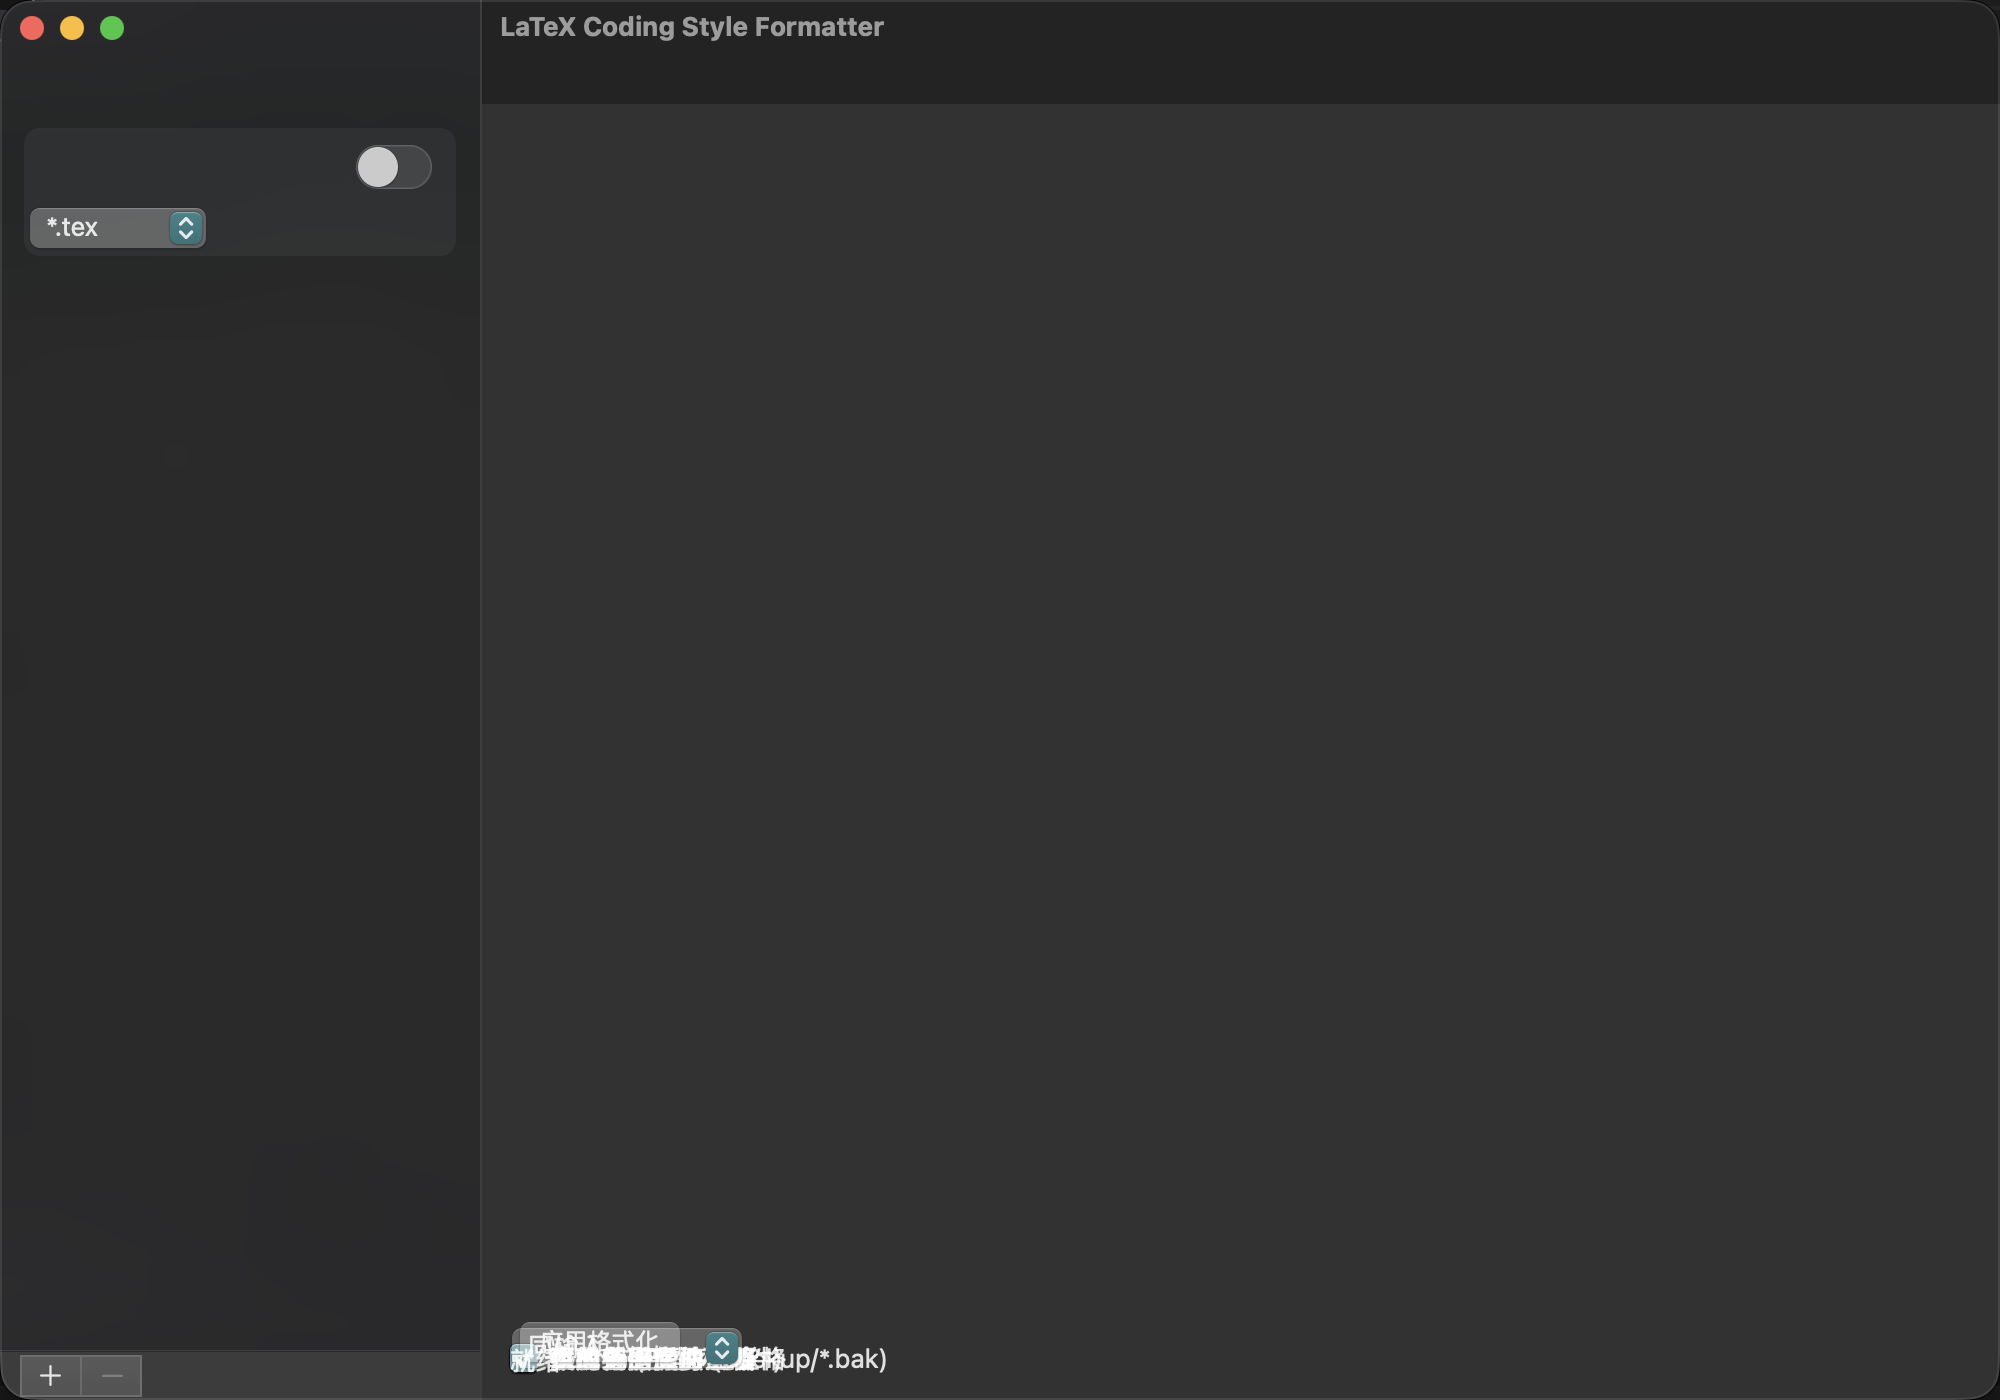
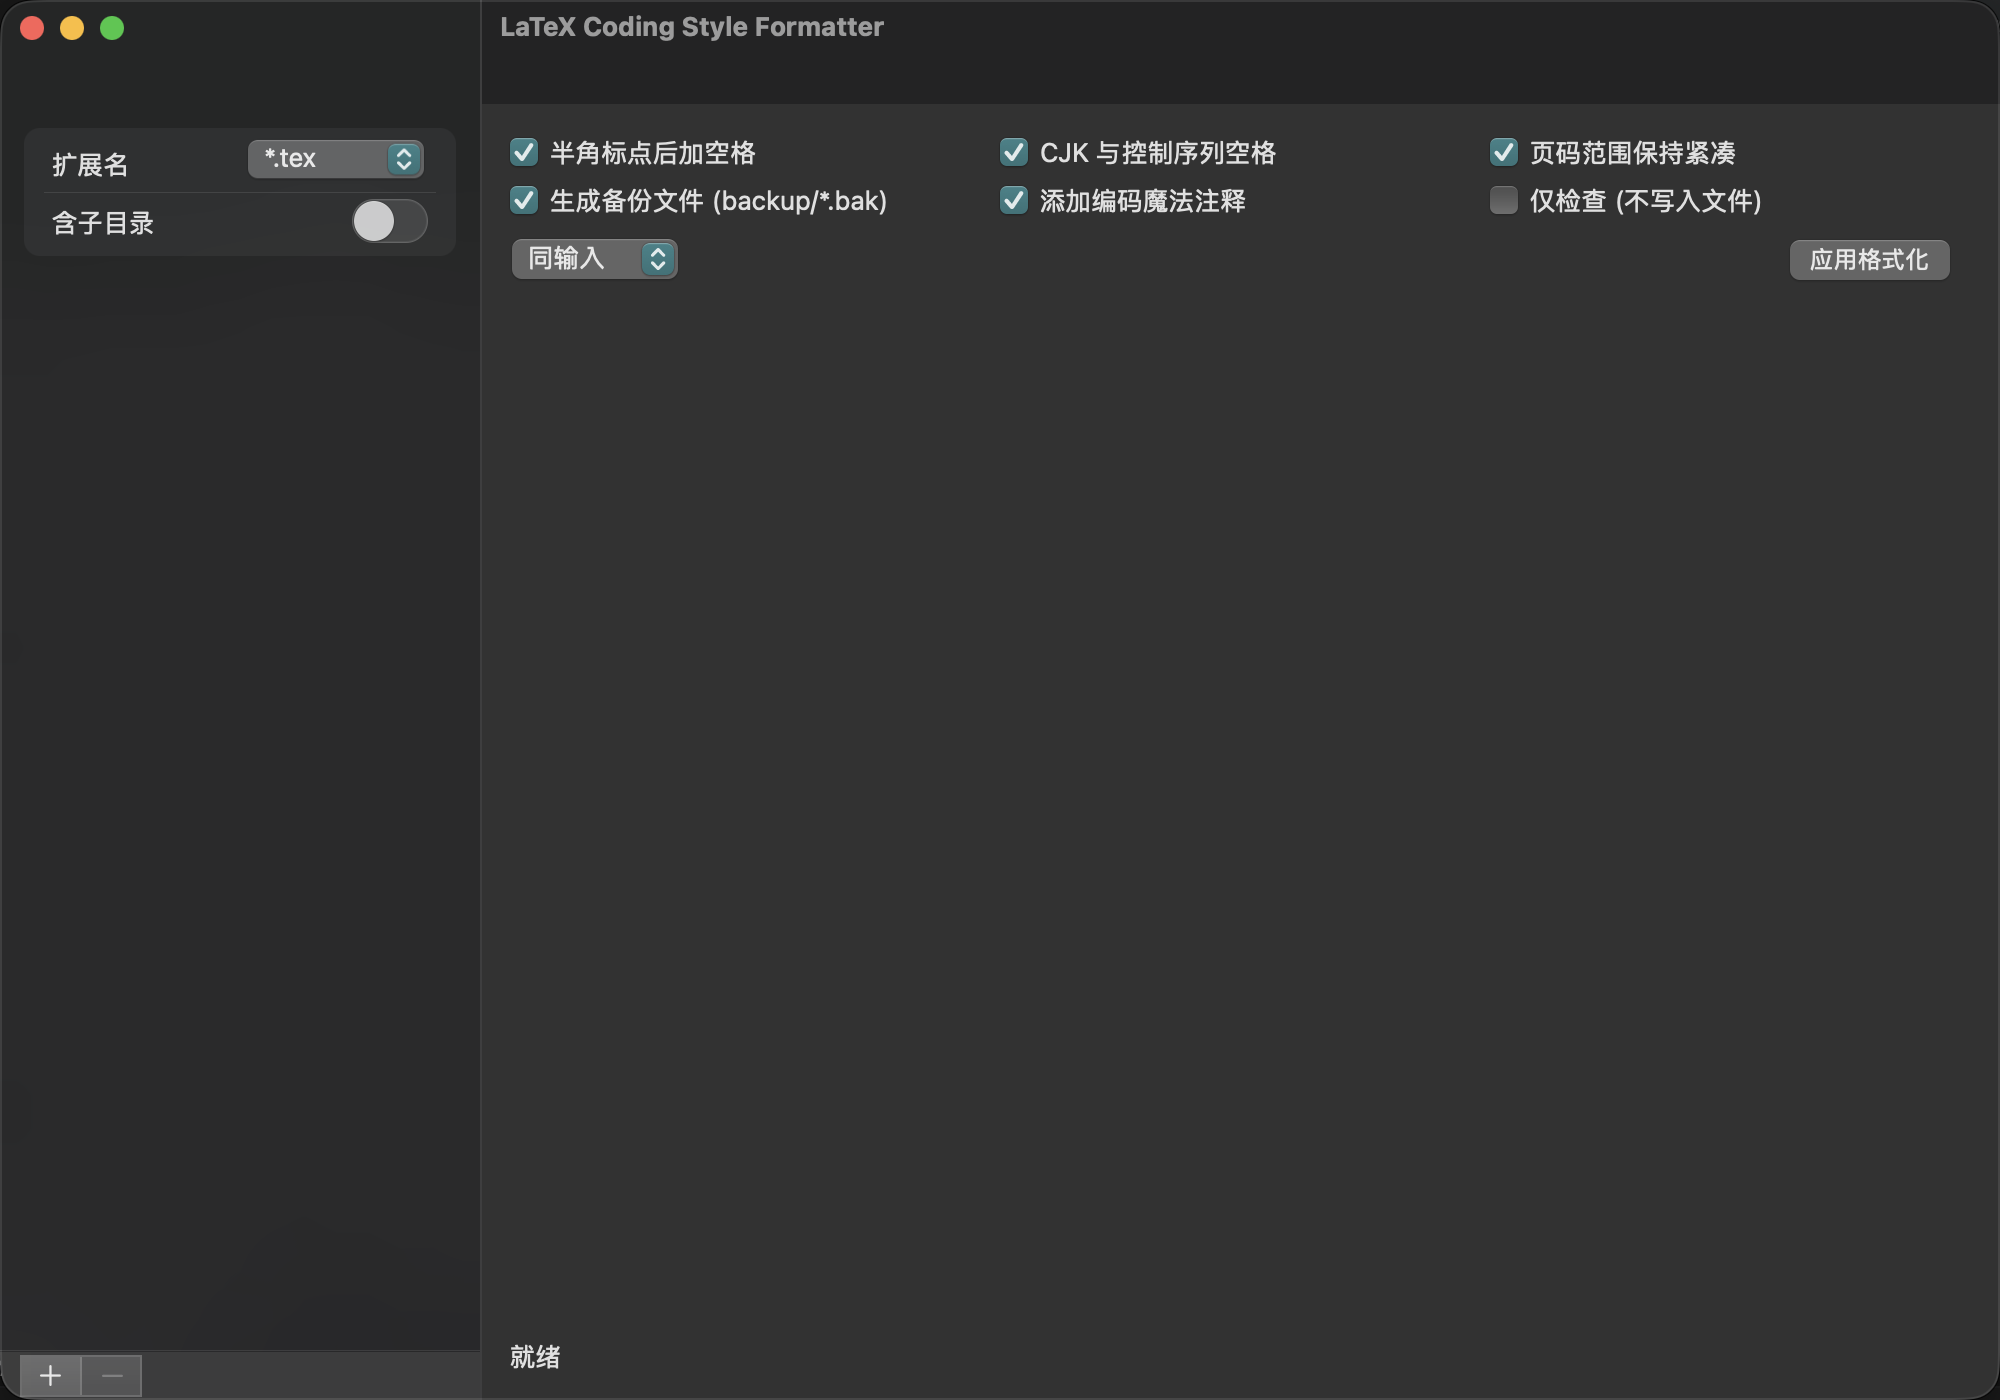
Stage 6b-iii: fix the native app layout - ViewTarget returns a Cocoa rect (placement read .origin/.size), controls remember their natural size so repeated placement cannot shrink them to stale slots, sidebar group gains 扩展名/含子目录 labels with the right row order + separator, status label fills its wid

diff --git a/native_mac/controls.py b/native_mac/controls.py
@@ -51,13 +51,15 @@ def _make_target(owner):
     return target
 
 
-def _place_centred(window, view, target, align_left=True):
-    """Fit ``view`` into ``target``: native size, left aligned (or filling)
-    and vertically centred - works for a Qt slot or a native view."""
+def _place_centred(window, view, target, align_left=True, natural=None):
+    """Fit ``view`` into ``target``: its natural size, left aligned (or
+    filling) and vertically centred - works for a Qt slot or a native view.
+    ``natural`` is the size measured before any squeeze, so repeated
+    placements cannot shrink the view to a stale slot."""
     import platform_effects as pe
 
     rect = target.rect()
-    native = view.frame().size
+    native = natural if natural is not None else view.frame().size
     height = min(native.height, rect.size.height)
     y = rect.origin.y + (rect.size.height - height) / 2.0
     if align_left:
@@ -103,6 +105,7 @@ class NativeCheckbox:
                 button.setAction_(b'toggled:')
                 button.sizeToFit()
                 self.view = button
+            self._natural = self.view.frame().size
             self._target = pe.as_target(self.window, self.slot, inset=1.0)
             if not pe.place_in(self.window, self._target, self.view):
                 return False
@@ -144,7 +147,13 @@ class NativeCheckbox:
 
     def place(self):
         if self.active and self.view is not None:
-            _place_centred(self.window, self.view, self._target)
+            if isinstance(self, NativeLabel) and self.fill:
+                _place_centred(self.window, self.view, self._target,
+                               align_left=False,
+                               natural=getattr(self, '_natural', None))
+            else:
+                _place_centred(self.window, self.view, self._target,
+                               natural=getattr(self, '_natural', None))
 
     def size(self):
         if self.view is None:
@@ -190,6 +199,7 @@ class NativePopUpButton:
                     popup.selectItemWithTitle_(self._current)
                 popup.sizeToFit()
                 self.view = popup
+            self._natural = self.view.frame().size
             self._target = pe.as_target(self.window, self.slot, inset=1.0)
             if not pe.place_in(self.window, self._target, self.view):
                 return False
@@ -236,7 +246,13 @@ class NativePopUpButton:
 
     def place(self):
         if self.active and self.view is not None:
-            _place_centred(self.window, self.view, self._target)
+            if isinstance(self, NativeLabel) and self.fill:
+                _place_centred(self.window, self.view, self._target,
+                               align_left=False,
+                               natural=getattr(self, '_natural', None))
+            else:
+                _place_centred(self.window, self.view, self._target,
+                               natural=getattr(self, '_natural', None))
 
     def size(self):
         if self.view is None:
@@ -273,6 +289,7 @@ class NativePushButton:
                 button.setAction_(b'clicked:')
                 button.sizeToFit()
                 self.view = button
+            self._natural = self.view.frame().size
             self._target = pe.as_target(self.window, self.slot, inset=1.0)
             if not pe.place_in(self.window, self._target, self.view):
                 return False
@@ -306,7 +323,13 @@ class NativePushButton:
 
     def place(self):
         if self.active and self.view is not None:
-            _place_centred(self.window, self.view, self._target)
+            if isinstance(self, NativeLabel) and self.fill:
+                _place_centred(self.window, self.view, self._target,
+                               align_left=False,
+                               natural=getattr(self, '_natural', None))
+            else:
+                _place_centred(self.window, self.view, self._target,
+                               natural=getattr(self, '_natural', None))
 
     def size(self):
         if self.view is None:
@@ -316,9 +339,11 @@ class NativePushButton:
 
 
 class NativeLabel:
-    """``NSTextField`` label over a Qt slot."""
+    """``NSTextField`` label over a Qt slot (``fill`` stretches it to the
+    slot's width so long text is never clipped)."""
 
-    def __init__(self, window, slot, text=''):
+    def __init__(self, window, slot, text='', fill=False):
+        self.fill = bool(fill)
         self.window = window
         self.slot = slot
         self.view = None
@@ -344,6 +369,7 @@ class NativeLabel:
                 field.setFont_(AppKit.NSFont.systemFontOfSize_(13.0))
                 field.sizeToFit()
                 self.view = field
+            self._natural = self.view.frame().size
             self._target = pe.as_target(self.window, self.slot, inset=1.0)
             if not pe.place_in(self.window, self._target, self.view):
                 return False
@@ -375,7 +401,13 @@ class NativeLabel:
 
     def place(self):
         if self.active and self.view is not None:
-            _place_centred(self.window, self.view, self._target)
+            if isinstance(self, NativeLabel) and self.fill:
+                _place_centred(self.window, self.view, self._target,
+                               align_left=False,
+                               natural=getattr(self, '_natural', None))
+            else:
+                _place_centred(self.window, self.view, self._target,
+                               natural=getattr(self, '_natural', None))
 
     def size(self):
         if self.view is None:

diff --git a/format_tex_app_mac.py b/format_tex_app_mac.py
@@ -75,13 +75,32 @@ class MacApp:
 
         # extension popup + recursive switch, inside the group
         host = AppKit.NSView.alloc().init()
-        host.setFrame_(((0.0, 0.0), (100.0, 100.0)))
+        host.setFrame_(((0.0, 0.0), (100.0, 24.0)))
         group.addSubview_(host)
+        self.ext_host = host
         self.ext_popup = NativePopUpButton(
             None, ViewTarget(host), EXTENSIONS, '.tex',
             on_change=self._extension_changed,
             custom_label='其它')
         self.ext_popup.build()
+
+        def label(text):
+            field = AppKit.NSTextField.alloc().init()
+            field.setBezeled_(False)
+            field.setDrawsBackground_(False)
+            field.setEditable_(False)
+            field.setSelectable_(False)
+            field.setStringValue_(text)
+            field.setFont_(AppKit.NSFont.systemFontOfSize_(13.0))
+            field.sizeToFit()
+            group.addSubview_(field)
+            return field
+
+        self.ext_label = label('扩展名')
+        self.switch_label = label('含子目录')
+        self.group_separator = AppKit.NSBox.alloc().init()
+        self.group_separator.setBoxType_(AppKit.NSBoxSeparator)
+        group.addSubview_(self.group_separator)
 
         switch = AppKit.NSSwitch.alloc().init()
         switch.setControlSize_(AppKit.NSControlSizeRegular)
@@ -183,9 +202,17 @@ class MacApp:
 
         status_slot = AppKit.NSView.alloc().init()
         host.addSubview_(status_slot)
-        self.status = NativeLabel(None, ViewTarget(status_slot), '就绪')
+        self.status = NativeLabel(None, ViewTarget(status_slot), '就绪',
+                                  fill=True)
         self.status.build()
         self.status_host = status_slot
+
+    def _popup_size(self):
+        try:
+            size = self.ext_popup.view.frame().size
+            return (float(size.width), float(size.height))
+        except Exception:
+            return (120.0, 24.0)
 
     def _layout_children(self):
         """Lay out the children of the two hosts (called by the shell)."""
@@ -195,15 +222,27 @@ class MacApp:
             shell = self.shell
             sidebar = shell.sidebar_host.frame()
             # group box contents: label-less rows, popup right, switch right
-            if self.switch_host is not None:
-                group = self.shell.sidebar_group
-                gb = group.bounds()
-                self.switch_host.setFrame_(((10.0, gb.size.height - 34.0),
-                                            (gb.size.width - 20.0, 28.0)))
-                switch = self.switch.frame()
-                self.switch.setFrameOrigin_(
-                    (gb.size.width - 10.0 - switch.size.width,
-                     gb.size.height - 34.0 + (28.0 - switch.size.height) / 2))
+            group = self.shell.sidebar_group
+            gb = group.bounds()
+            row_h = 30.0
+            top_row_y = gb.size.height - row_h - 2.0
+            bottom_row_y = 2.0
+            self.group_separator.setFrame_(
+                ((10.0, bottom_row_y + row_h - 1.0),
+                 (gb.size.width - 20.0, 1.0)))
+            self.ext_label.setFrameOrigin_((12.0, top_row_y + 6.0))
+            self.switch_label.setFrameOrigin_((12.0, bottom_row_y + 7.0))
+            # extension popup (upper row, right aligned)
+            popup = self._popup_size()
+            self.ext_host.setFrame_(
+                ((gb.size.width - 12.0 - popup[0], top_row_y + 3.0),
+                 (popup[0], popup[1])))
+            self.ext_popup.place()
+            # recursive switch (lower row, right aligned)
+            switch = self.switch.frame()
+            self.switch.setFrameOrigin_(
+                (gb.size.width - 12.0 - switch.size.width,
+                 bottom_row_y + (row_h - switch.size.height) / 2.0))
 
             options = [c for _s, c in self.option_hosts]
             host = shell.content_host.bounds()

diff --git a/platform_effects.py b/platform_effects.py
@@ -212,11 +212,15 @@ class ViewTarget:
         self.inset = float(inset)
 
     def rect(self):
+        # a Cocoa rect: the placement code reads .origin/.size
+        import Foundation
+
         frame = self.view.frame()
         inset = self.inset
-        return ((frame.origin.x + inset, frame.origin.y + inset),
-                (max(0.0, frame.size.width - 2 * inset),
-                 max(0.0, frame.size.height - 2 * inset)))
+        return Foundation.NSMakeRect(
+            frame.origin.x + inset, frame.origin.y + inset,
+            max(0.0, frame.size.width - 2 * inset),
+            max(0.0, frame.size.height - 2 * inset))
 
     def visible(self):
         try:
